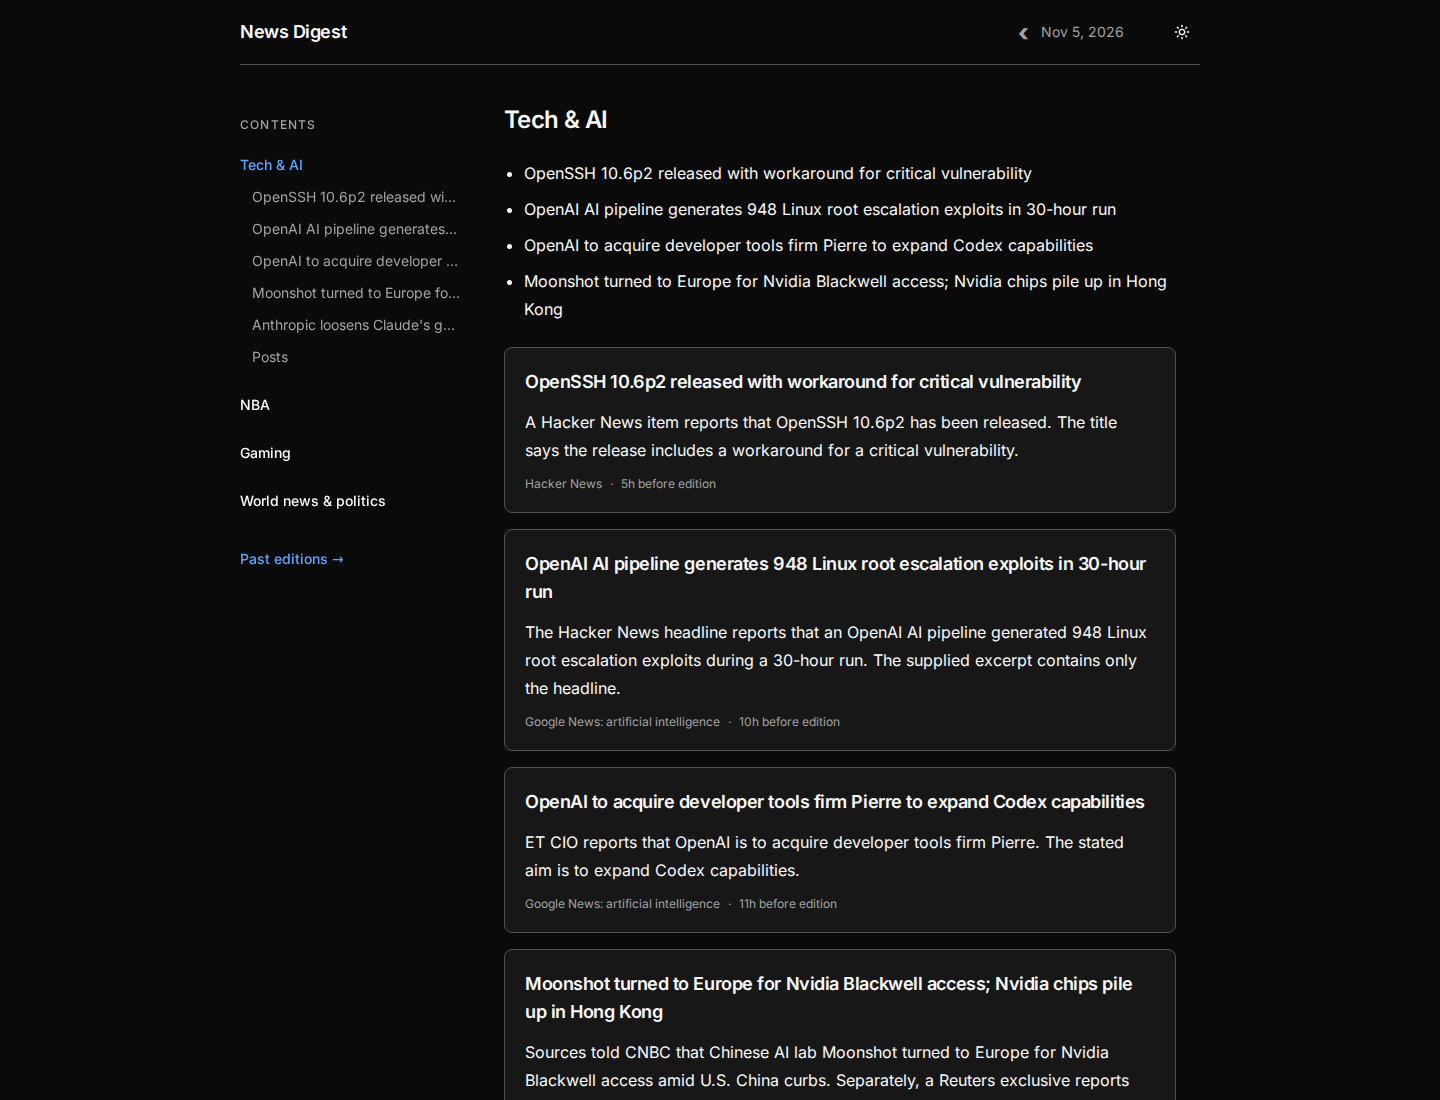
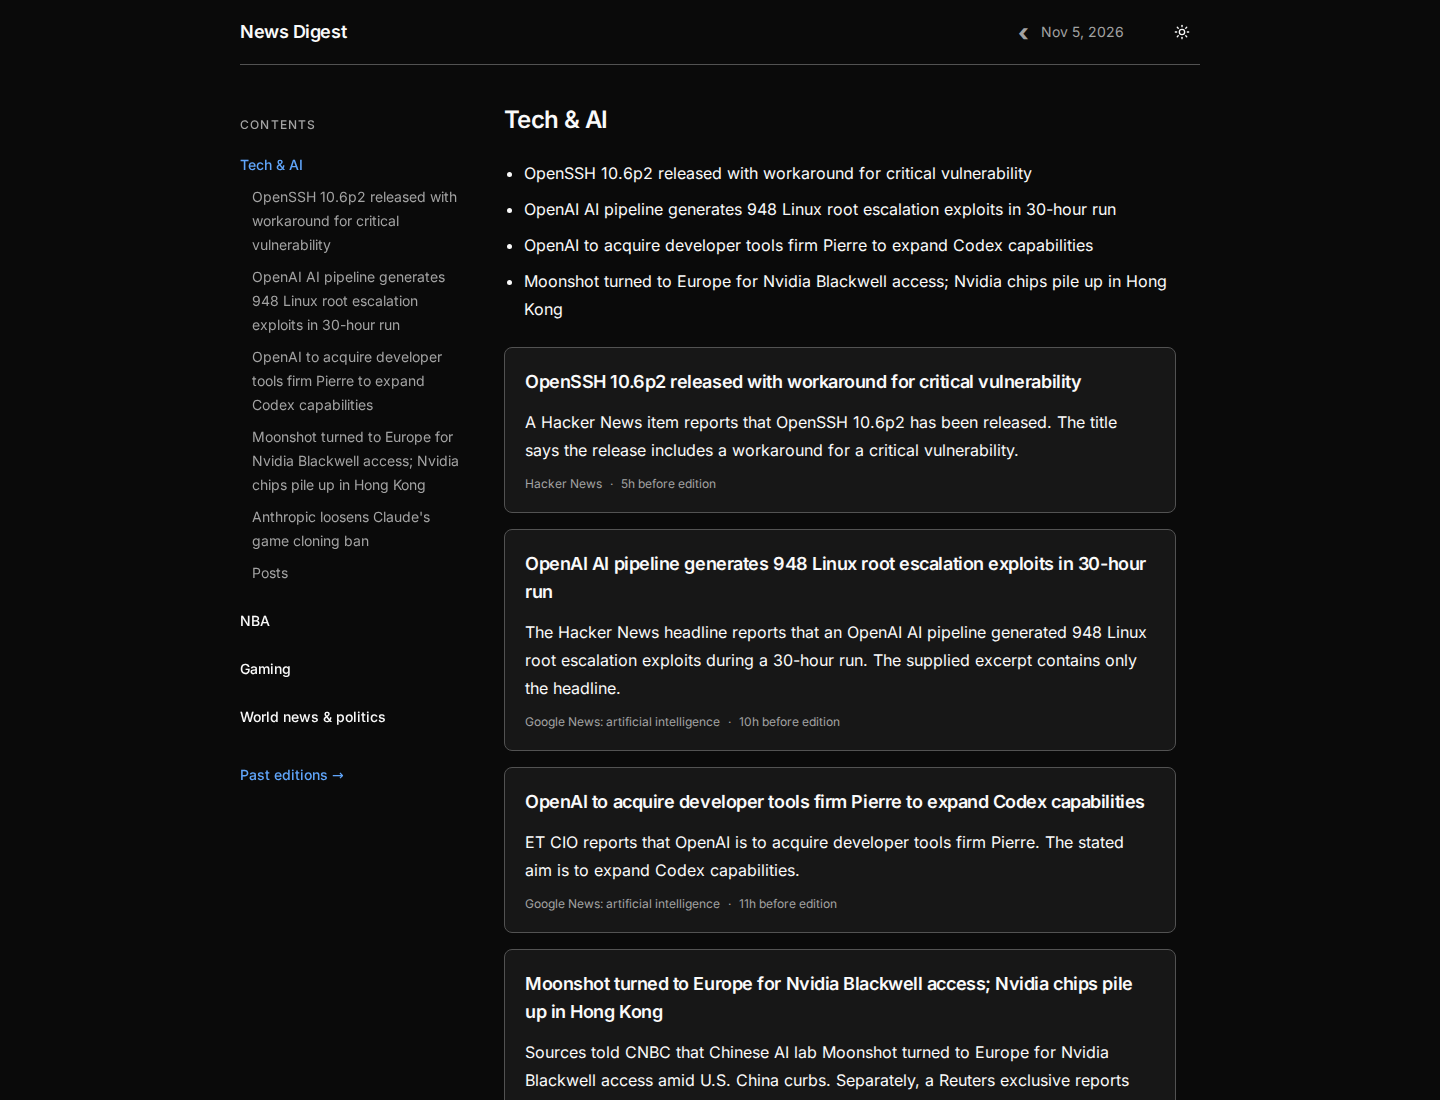
Show full story headlines in desktop reader contents

Changed region(s): [[0.1562, 0.1855, 0.3125, 0.5255], [0.1562, 0.6491, 0.25, 0.7109], [0.1562, 0.5564, 0.1875, 0.6182]]

diff --git a/scripts/smoke-reader-layout.ts b/scripts/smoke-reader-layout.ts
@@ -279,6 +279,18 @@ async function smoke() {
             ? page.getByRole('navigation', { name: 'Edition contents' })
             : null;
         if (navigation) {
+          for (const story of second.stories) {
+            const link = navigation.getByRole('link', {
+              name: story.title,
+              exact: true,
+            });
+            assert.ok(
+              await link.evaluate(
+                (element) => element.scrollWidth <= element.clientWidth + 1,
+              ),
+              `Desktop contents must show the full headline: ${story.title}`,
+            );
+          }
           const story = second.stories[0];
           await navigation
             .getByRole('link', { name: story.title, exact: true })

diff --git a/apps/web/src/ReaderContents.tsx b/apps/web/src/ReaderContents.tsx
@@ -88,7 +88,7 @@ export function ReaderContents({ topics }: { topics: Topic[] }) {
                 }
 
                 aria-current={active === id ? 'location' : undefined}
-                className={`block ${mobile ? 'whitespace-normal break-words' : 'truncate'} rounded py-1 text-sm leading-6 hover:text-[var(--accent)] ${nested ? 'pl-3 font-normal' : 'font-medium'} ${active === id ? 'text-[var(--accent)]' : ''}`}
+                className={`block whitespace-normal break-words rounded py-1 text-sm leading-6 hover:text-[var(--accent)] ${nested ? 'pl-3 font-normal' : 'font-medium'} ${active === id ? 'text-[var(--accent)]' : ''}`}
               >
                 {text}
               </a>

diff --git a/PROGRESS.md b/PROGRESS.md
@@ -1,12 +1,3 @@
-## 2026-11-06: iteration 930 — fit X embeds to reader cards
-
-- Started clean on main; no leftover work. Health/database/Redis green, alerts clear and all sources healthy. Nov 6 review/Bluesky gate and X round remain time-gated.
-- Reader weakness: saved X posts requested 550px widgets inside narrower two-column/mobile cards. Request the actual card width within X's 250–550px range and constrain loaded iframe width after resizing; readers can keep media within the post card.
-- Added saved-post browser replay with a clearly labelled local widget stub; no third-party requests, paid calls or writes. Desktop/mobile light/dark sizing and 320px resize passed; saved edition unchanged. Refreshed/inspected screenshots. General reader layout replay passed all four combinations.
-- Verification: pnpm format; pnpm lint:fix; pnpm check; pnpm build; smoke-post-sizing.ts; smoke-reader-layout.ts; git diff --check. Full check exited zero: 543 unit and 224 isolated integration tests passed, with coverage completed; build passed.
-- Updated TASKS and STEERING ack; archived iterations 916–917 to keep PROGRESS small. No source, selection, budget, flag or system-flow changes; SOURCES, handbook and NEEDS_FROM_HUMAN unchanged.
-- Rebuilt/restarted API/worker/docs/schema; health/database/Redis green, alerts clear, 36/36 source states ok and zero retained failed digest jobs. Next: Nov 6 World/cost/Bluesky review after publication, fresh X round after 21:00 UTC; fixed search and reserved Bluesky slot remain OFF.
-
 ## 2026-11-06: iteration 931 — keep the active mobile topic visible
 
 - Started clean on main; no leftover work. Alerts clear and health/database/Redis green. Nov 6 edition/Bluesky review and X round remain time-gated.
@@ -169,3 +160,14 @@
 - Updated TASKS; no source/system-flow change, so SOURCES, handbook and NEEDS_FROM_HUMAN unchanged.
 - Next: Nov 6 edition/Bluesky review after publication; X after 21:00 UTC. Fixed search and reserved slot stay off.
 - Final pnpm check exited zero: 543 unit and 224 isolated integration tests passed; build and post-restart desktop/mobile smoke passed. API/worker/docs/schema restarted, health/database/Redis green, 36/36 sources healthy, zero failed digest jobs and alerts clear.
+
+## 2026-11-06: iteration 946 — show full desktop Contents headlines
+
+- Started clean on main; no leftover work. Alerts clear and health/database/Redis green; higher-priority reviews remain time-gated.
+- Reader weakness: desktop Contents clipped saved headlines, including Wembanyama's game result; reproduced with a browser assertion before changing the UI.
+- Owner value: full headlines let the reader distinguish stories before choosing one. Titles now wrap in the existing scrollable sidebar.
+- Extended saved-edition layout replay to reject desktop headline clipping, retaining keyboard navigation checks and four-view screenshots. No paid calls, selection or flags changed.
+- Updated TASKS, handbook and STEERING ack; archived the oldest progress entry. SOURCES and NEEDS_FROM_HUMAN unchanged.
+- Verification: pnpm format; pnpm lint:fix; pnpm check (543 unit/224 isolated integration tests); pnpm build; pnpm exec tsx scripts/smoke-reader-layout.ts before/after restart; pnpm exec tsx scripts/check-handbook.ts 08-operations; git diff --check. All passed; desktop screenshot inspected.
+- API/worker/docs/schema restarted; health/database/Redis green, 36/36 sources healthy, no failed digest jobs, alerts clear.
+- Next: Nov 6 edition/Bluesky cost review after publication; fresh X round after 21:00 UTC.

diff --git a/docs/handbook/01-app/08-operations.md b/docs/handbook/01-app/08-operations.md
@@ -2,7 +2,7 @@
 
 ## URLs
 
-Reader: `/`, with desktop contents, mobile topic chips and a Contents menu with full, wrapping headlines. Contents moves keyboard focus to the chosen heading or story. Copy a story hash to reopen it directly. Story source names link to their articles, with outlet favicons; expand grouped coverage to read the other reports. Posts include saved editorial context below the original text or embed; saved X text links directly to the post. Header arrows open the adjacent saved editions; the date opens the archive. Past editions at `/editions`, with dates, topics and page links. Each opens its saved `/editions/:id` page. Management: `/admin`, with Overview, Editions, Sources, Topics, Schedule, Spend and Tools navigation (mobile menu).
+Reader: `/`, with full, wrapping headlines in desktop contents and the mobile Contents menu, plus mobile topic chips. Contents moves keyboard focus to the chosen heading or story. Copy a story hash to reopen it directly. Story source names link to their articles, with outlet favicons; expand grouped coverage to read the other reports. Posts include saved editorial context below the original text or embed; saved X text links directly to the post. Header arrows open the adjacent saved editions; the date opens the archive. Past editions at `/editions`, with dates, topics and page links. Each opens its saved `/editions/:id` page. Management: `/admin`, with Overview, Editions, Sources, Topics, Schedule, Spend and Tools navigation (mobile menu).
 APIs use `/api/admin/*`; old API paths return 404. `/admin`, its APIs and every tool below require [admin identity](01-stack-and-runtime.md#admin-identity). `/api/me` reports access.
 Local scripts read `ADMIN_LOCAL_TOKEN` from the private env file and send it only
 to protected paths at `http://127.0.0.1:8000`, refusing redirects. Browser checks

diff --git a/docs/progress-archive/2026-11-06-iteration-930.md b/docs/progress-archive/2026-11-06-iteration-930.md
@@ -1,0 +1,8 @@
+## 2026-11-06: iteration 930 — fit X embeds to reader cards
+
+- Started clean on main; no leftover work. Health/database/Redis green, alerts clear and all sources healthy. Nov 6 review/Bluesky gate and X round remain time-gated.
+- Reader weakness: saved X posts requested 550px widgets inside narrower two-column/mobile cards. Request the actual card width within X's 250–550px range and constrain loaded iframe width after resizing; readers can keep media within the post card.
+- Added saved-post browser replay with a clearly labelled local widget stub; no third-party requests, paid calls or writes. Desktop/mobile light/dark sizing and 320px resize passed; saved edition unchanged. Refreshed/inspected screenshots. General reader layout replay passed all four combinations.
+- Verification: pnpm format; pnpm lint:fix; pnpm check; pnpm build; smoke-post-sizing.ts; smoke-reader-layout.ts; git diff --check. Full check exited zero: 543 unit and 224 isolated integration tests passed, with coverage completed; build passed.
+- Updated TASKS and STEERING ack; archived iterations 916–917 to keep PROGRESS small. No source, selection, budget, flag or system-flow changes; SOURCES, handbook and NEEDS_FROM_HUMAN unchanged.
+- Rebuilt/restarted API/worker/docs/schema; health/database/Redis green, alerts clear, 36/36 source states ok and zero retained failed digest jobs. Next: Nov 6 World/cost/Bluesky review after publication, fresh X round after 21:00 UTC; fixed search and reserved Bluesky slot remain OFF.

diff --git a/STEERING.md b/STEERING.md
@@ -1481,3 +1481,5 @@ ack: 2026-11-06 item 42 — iteration 940: saved posts put their paraphrased con
 ack: 2026-11-06 item 42 — iteration 942: mobile Contents cut off saved headlines, hiding distinguishing details. Let titles wrap in the sheet; real saved-title clipping and navigation checks passed in light/dark, with desktop unchanged. No spend or selection changes.
 
 ack: 2026-11-06 item 42 — iteration 943: saved-edition Contents left keyboard focus on the body or mobile menu after choosing a story. Focus the chosen content while preserving Escape restoration; verified saved-edition keyboard paths across desktop/mobile light/dark. No spend or selection changes.
+
+ack: 2026-11-06 item 42 — iteration 946: desktop Contents cut off saved headlines including Wembanyama’s game result; wrap full titles in the scrollable sidebar. Verified clipping and keyboard navigation against saved content in light/dark; no spend or selection changes.

diff --git a/TASKS.md b/TASKS.md
@@ -39,6 +39,8 @@ Fix failures first. STEERING overrides older notes. [Prior detail through 846](d
 
 ## Latest verified step
 
+- [x] Desktop Contents headlines (946): long saved headlines wrap fully in the sidebar; saved-edition clipping and keyboard navigation verified in light/dark.
+
 - [x] Main reader smoke (945): ported saved story, summary, image, archive and reload checks to the rebuilt reader; blocks external widgets and API writes.
 
 - [x] Archive response isolation (944): ported the broken inline-history/job smoke to delayed archive refreshes; opening a saved edition survives late success/error responses in four device/theme views.
